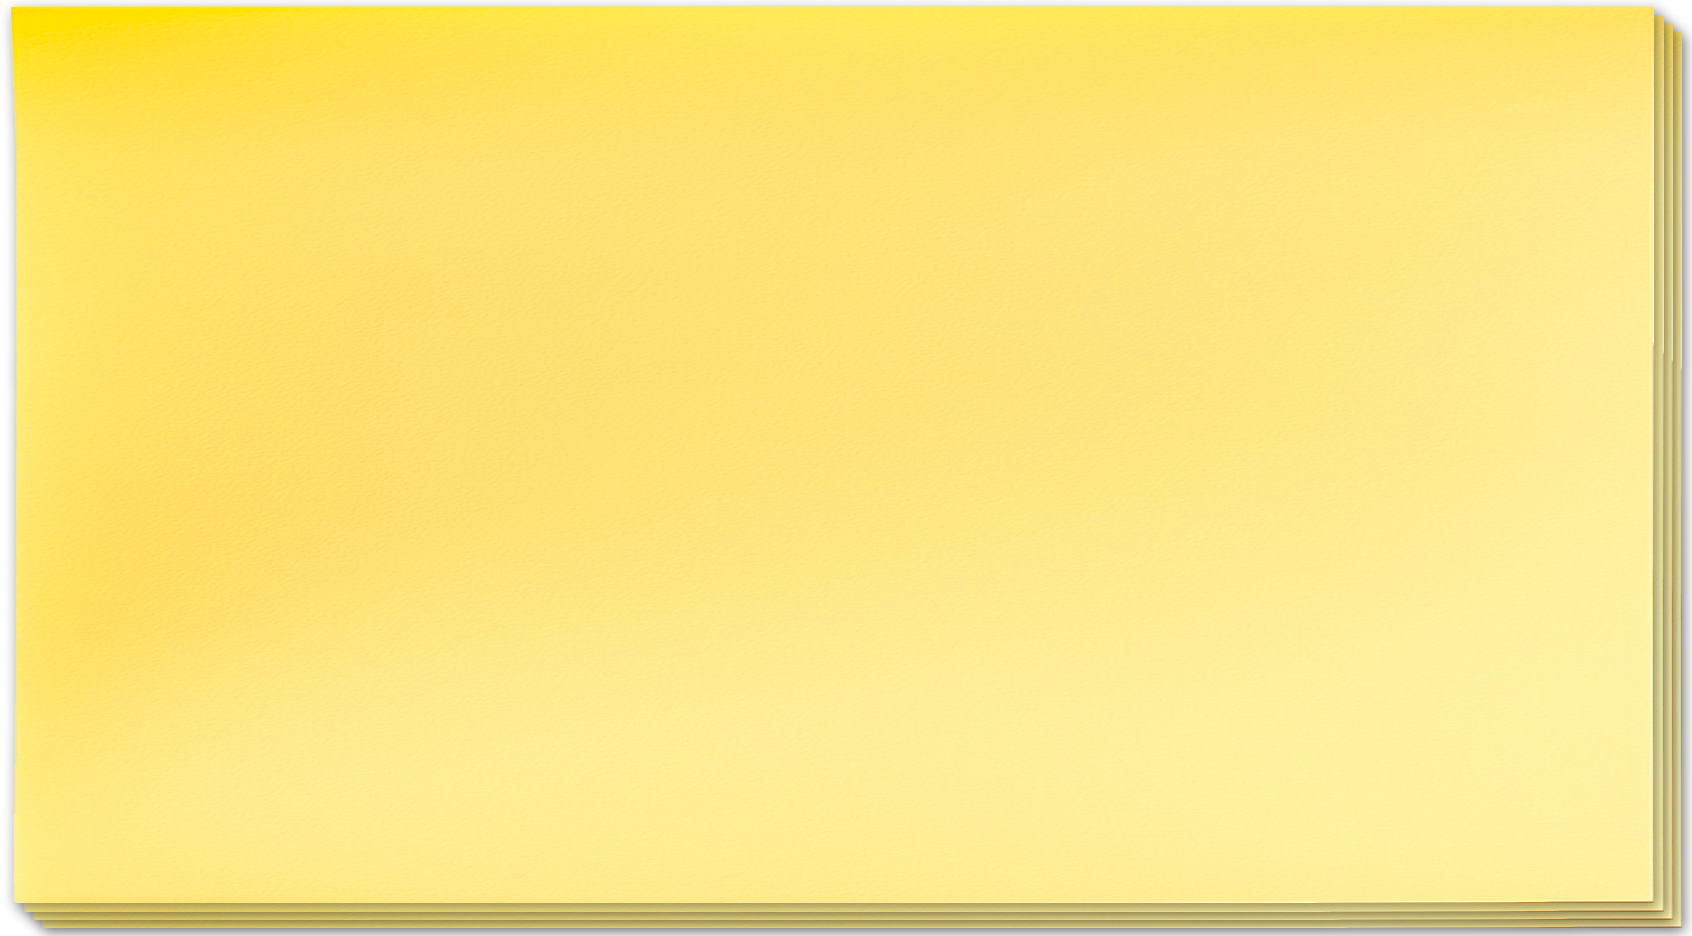
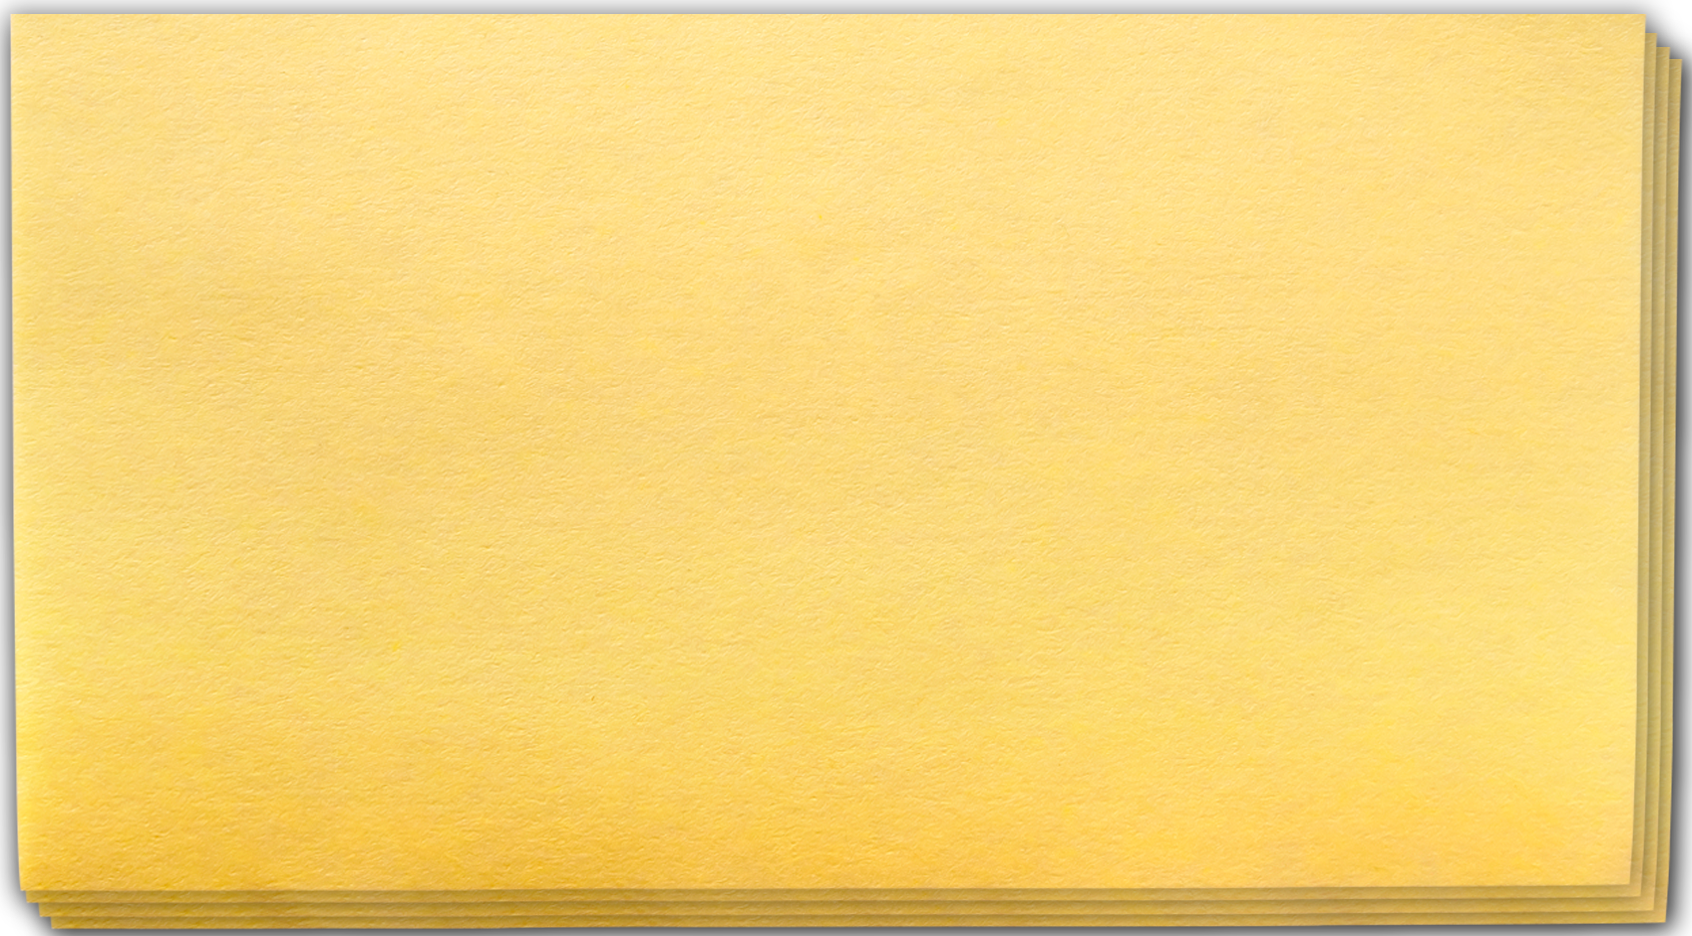
new post-its and layout

diff --git a/src/routes/question/index.scss b/src/routes/question/index.scss
@@ -48,7 +48,7 @@
     position: absolute;
     top: 120px;
     // border: 1px dashed rgba(255, 255, 255, .5);
-    padding: 50px;
+    padding: 20px 80px 80px 20px;
     box-sizing: border-box;
     touch-action: none;
     background: url('../../assets/images/postit-drawing-background.png');
@@ -75,7 +75,7 @@
 
   &-controls {
     position: absolute;
-    bottom: 30px;
+    bottom: 45px;
     width: 100%;
     display: flex;
     justify-content: space-between;
@@ -95,12 +95,12 @@
     &-reset {
       background: url('../../assets/images/reset.svg') !important;
       background-size: contain !important;
-      margin-left: 30px !important;
+      margin-left: 40px !important;
     }
 
     &-submit {
       background: url('../../assets/images/submit.svg') !important;
-      margin-right: 60px !important;
+      margin-right: 80px !important;
     }
   }
 

diff --git a/src/routes/results/index.scss b/src/routes/results/index.scss
@@ -21,12 +21,13 @@
     &-submission {
       position: absolute;
       transform: translate(-50%, -50%);
+      
 
       /*
         IMPORTANT: Update this based on the output of scripts/generate-layout
       */
-      width: 124px;
-      height: 69px;
+      width: 160px;
+      height: 89px;
       // outline: 1px solid red;
 
       &:after {
@@ -38,7 +39,7 @@
         display: none; // Turn off to debug postiions vs layout.png from above
       }
 
-      .preview-canvas {
+      .canvas-wrap {
         width: 100%;
         height: 100%;
         background: url('../../assets/images/postit-render-background.png');
@@ -53,6 +54,14 @@
           opacity: 1;
         }
       }
+
+      .preview-canvas {
+        width: 100%;
+        height: 100%;
+        transform: translateY(5px) scale(.95);
+      }
+
+
 
       .empty {
 

diff --git a/src/routes/results/index.jsx b/src/routes/results/index.jsx
@@ -276,7 +276,11 @@ const CanvasPreview = ({ strokes, id }) => {
     return () => clearTimeout(timer);
   }, []);
 
-  return <canvas ref={canvasRef} width={1692} height={1056 - 120} className={`preview-canvas ${id}`} style={{ transform: `rotate(${rotation}deg)` }} />;
+  return (
+    <div width={1692} height={1056 - 120} className={`canvas-wrap ${id}`} style={{ transform: `rotate(${rotation}deg)` }}>
+      <canvas ref={canvasRef} className={`preview-canvas ${id}`} width={1692} height={1056 - 120}  />
+    </div>
+  );
 };
 
 export default Results;
